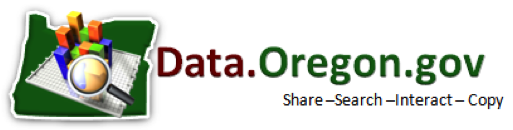
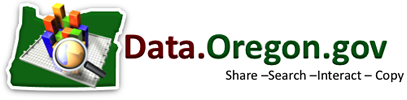
THEME update: Oregon
QA: Ignore

Changed region(s): [[0.0, 0.0, 0.973, 0.96], [0.5307, 0.69, 1.0, 0.84]]

diff --git a/public/stylesheets/custom/data.oregon.gov.css b/public/stylesheets/custom/data.oregon.gov.css
@@ -36,15 +36,15 @@
 
 .dataOregonLogo {
     background: url(/stylesheets/images/domains/data.oregon.gov/data.oregon.gov.png) no-repeat;
-    height: 130px;
-    width: 513px;
+    height: 100px;
+    width: 407px;
+    margin-bottom: 2em;
 }
 
 .oregonDeveloperLogo {
     background: url(/stylesheets/images/domains/data.oregon.gov/oregon.splash.png) no-repeat;
-    height: 162px;
-    width: 383px;
-    margin-bottom: 1em;
+    height: 150px;
+    width: 257px;
 }
 
 .leftSplashIntro,
